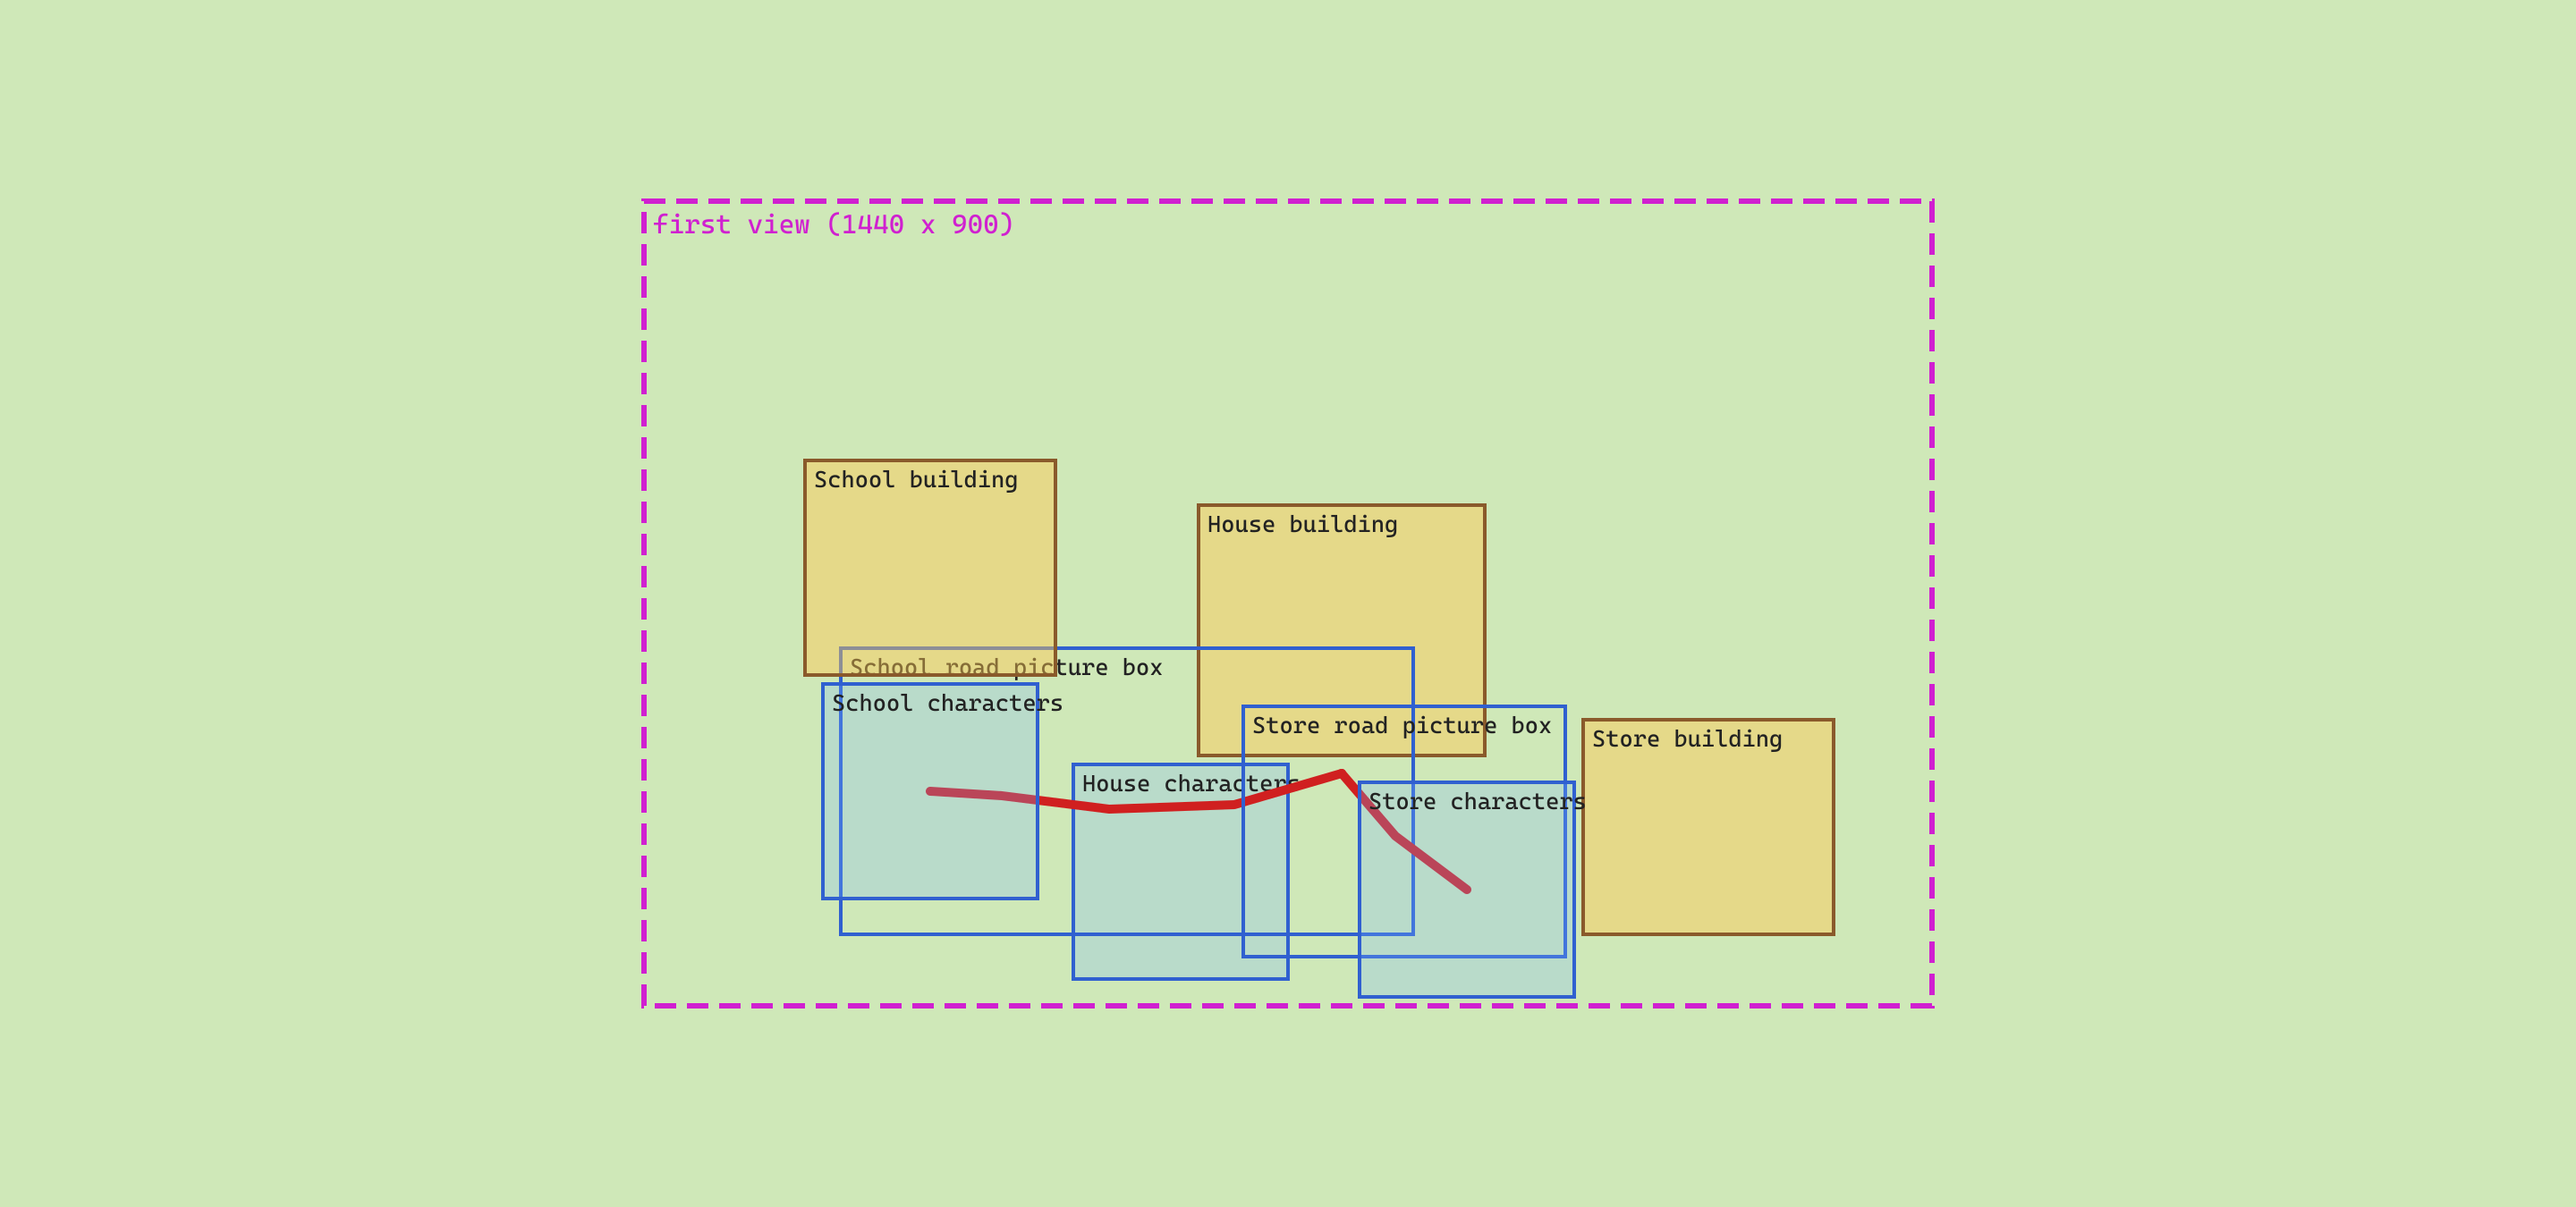
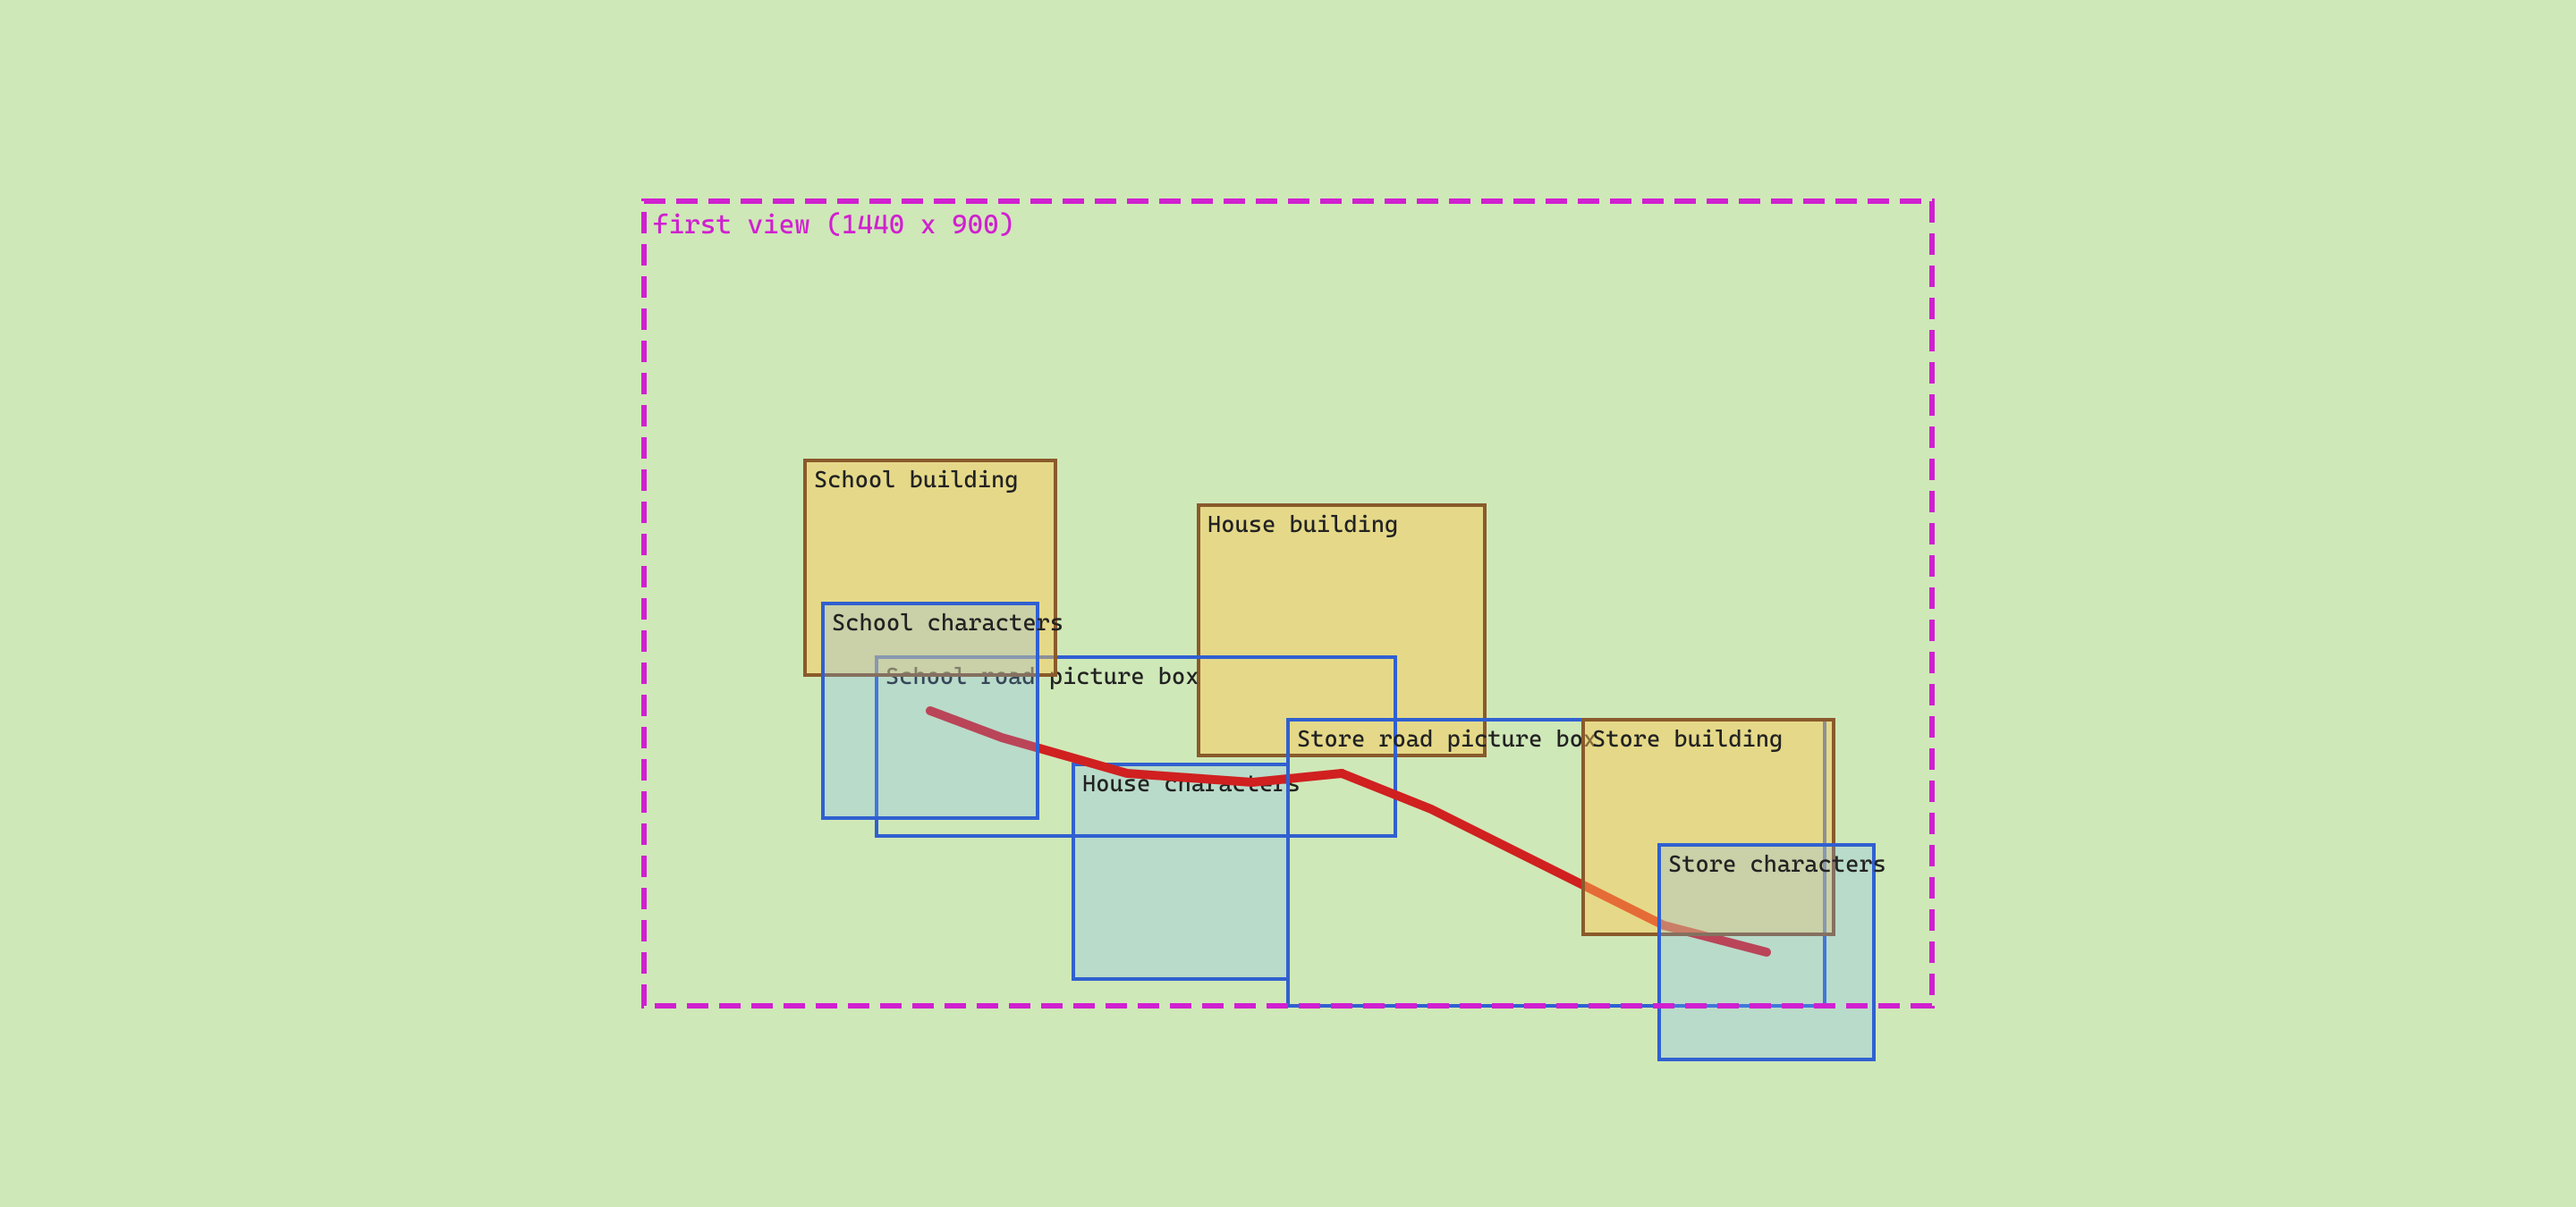
art: regenerate layout and road guides, road prompts say door to door single path

Changed region(s): [[0.3125, 0.4978, 0.7188, 0.8089], [0.5312, 0.7778, 0.625, 0.84], [0.4688, 0.7467, 0.5312, 0.8089]]

diff --git a/art/eva/map/PROMPTS.md b/art/eva/map/PROMPTS.md
@@ -30,7 +30,7 @@ Add: "If your tool can produce a real transparent background, use that instead o
 
 Attach `layout-guide.png`; one prompt each.
 
-Use the small per-road guides instead of the big layout guide: attach `road_school_guide.png` for the School road and `road_store_guide.png` for the Store road (one prompt each). "Attached is a guide picture with a red line, a blue dot at the start and a green dot at the end. Draw ONE natural dirt footpath for a children's game map that runs exactly along the red line, from the blue dot to the green dot: the middle of the path must lie on the red line the whole way, and the path must have the same overall direction and the same gentle bends as the line (do not add extra curves, loops or S-bends, and do not flip it). The path is about 180 px wide in this picture, worn earth with a few tiny pebbles and a few grass tufts along the edges, soft irregular edges that blend into grass. Both ends are rounded and fade softly into grass exactly at the two dots (do not run the path off the picture edge). Draw only the path on a plain solid magenta (#ff00ff) background, the picture exactly the same size and shape as the guide (2:1 for the School road, 9:7 for the Store road), nothing else: no red line, no dots, no buildings, no arrows, no text, no bushes, flowers or stones lying across the path. Same soft polished 3D-look children's game illustration style as the rest. File name: road_school.png (or road_store.png)."
+Use the small per-road guides instead of the big layout guide: attach `road_school_guide.png` for the School road and `road_store_guide.png` for the Store road (one prompt each). "Attached is a guide picture with a red line, a blue dot at the start and a green dot at the end. Draw ONE natural dirt footpath for a children's game map that runs exactly along the red line, from the blue dot to the green dot: the middle of the path must lie on the red line the whole way, and the path must have the same overall direction and the same gentle bends as the line (do not add extra curves, loops or S-bends, and do not flip it). The path is about 180 px wide in this picture, worn earth with a few tiny pebbles and a few grass tufts along the edges, soft irregular edges that blend into grass. The path starts exactly at the blue dot, which is the house door, and ends exactly at the green dot, which is the building's door: it is one single path, with no branches, no side paths, no fork and no extension past either end, and it never crosses or touches another road. Both ends are rounded and fade softly into grass exactly at the two dots (do not run the path off the picture edge). Draw only the path on a plain solid magenta (#ff00ff) background, the picture exactly the same size and shape as the guide (29:10 for the School road, 15:8 for the Store road), nothing else: no red line, no dots, no buildings, no arrows, no text, no bushes, flowers or stones lying across the path. Same soft polished 3D-look children's game illustration style as the rest. File name: road_school.png (or road_store.png)."
 
 ## Checklist
 
